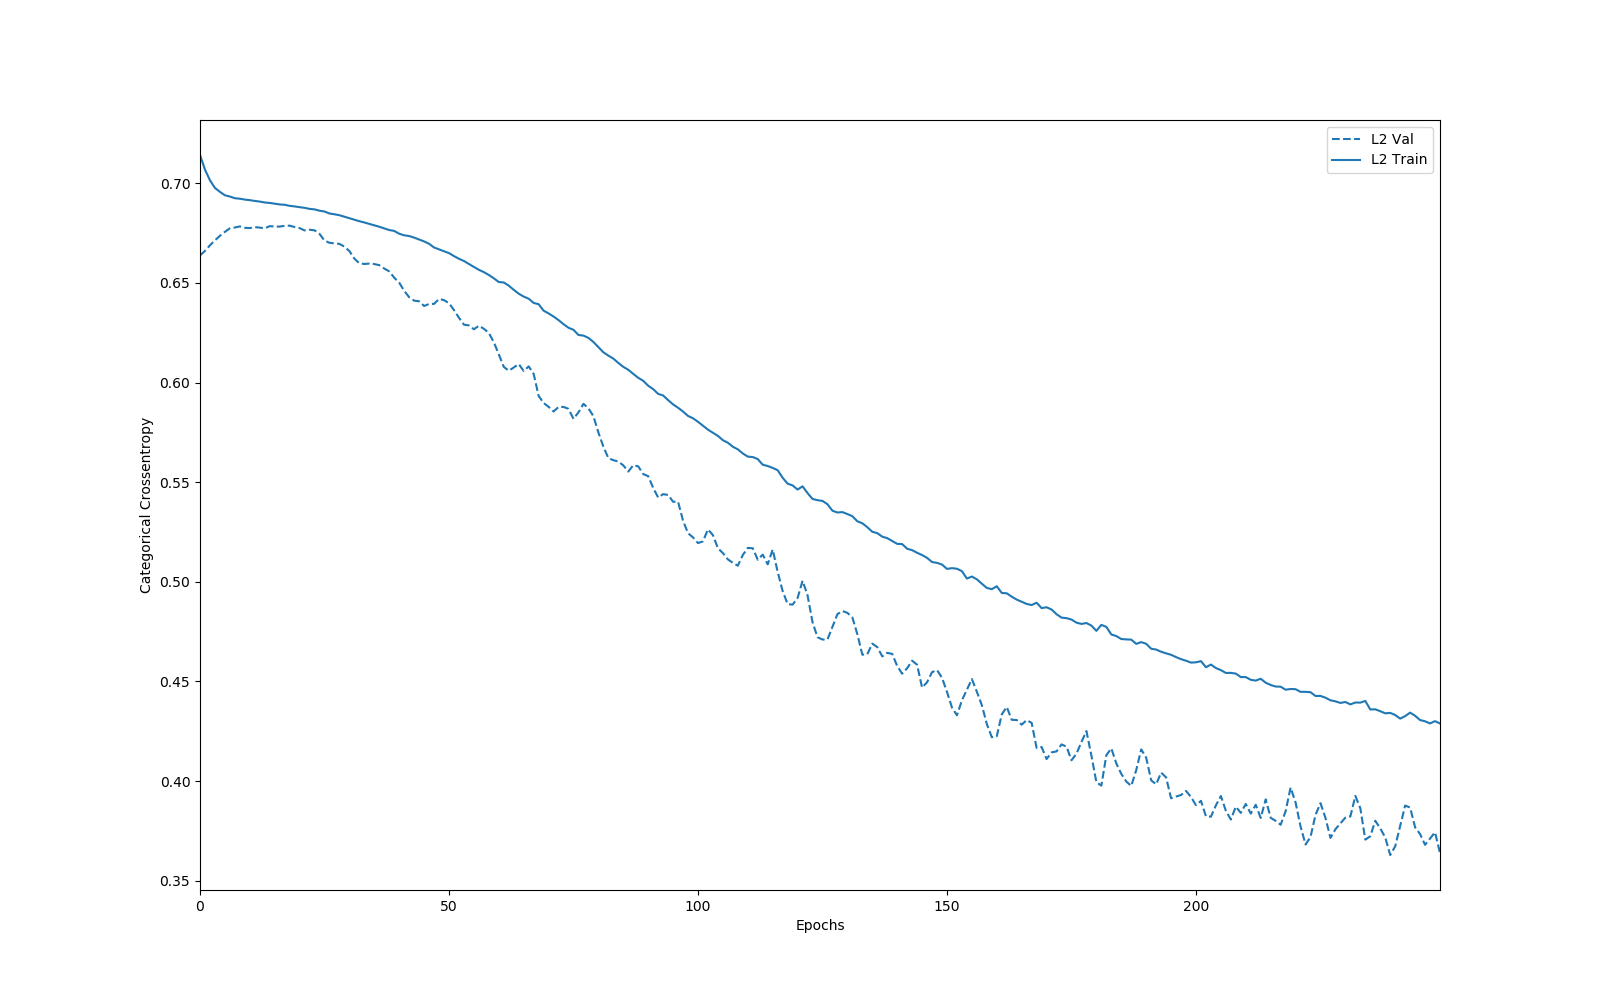
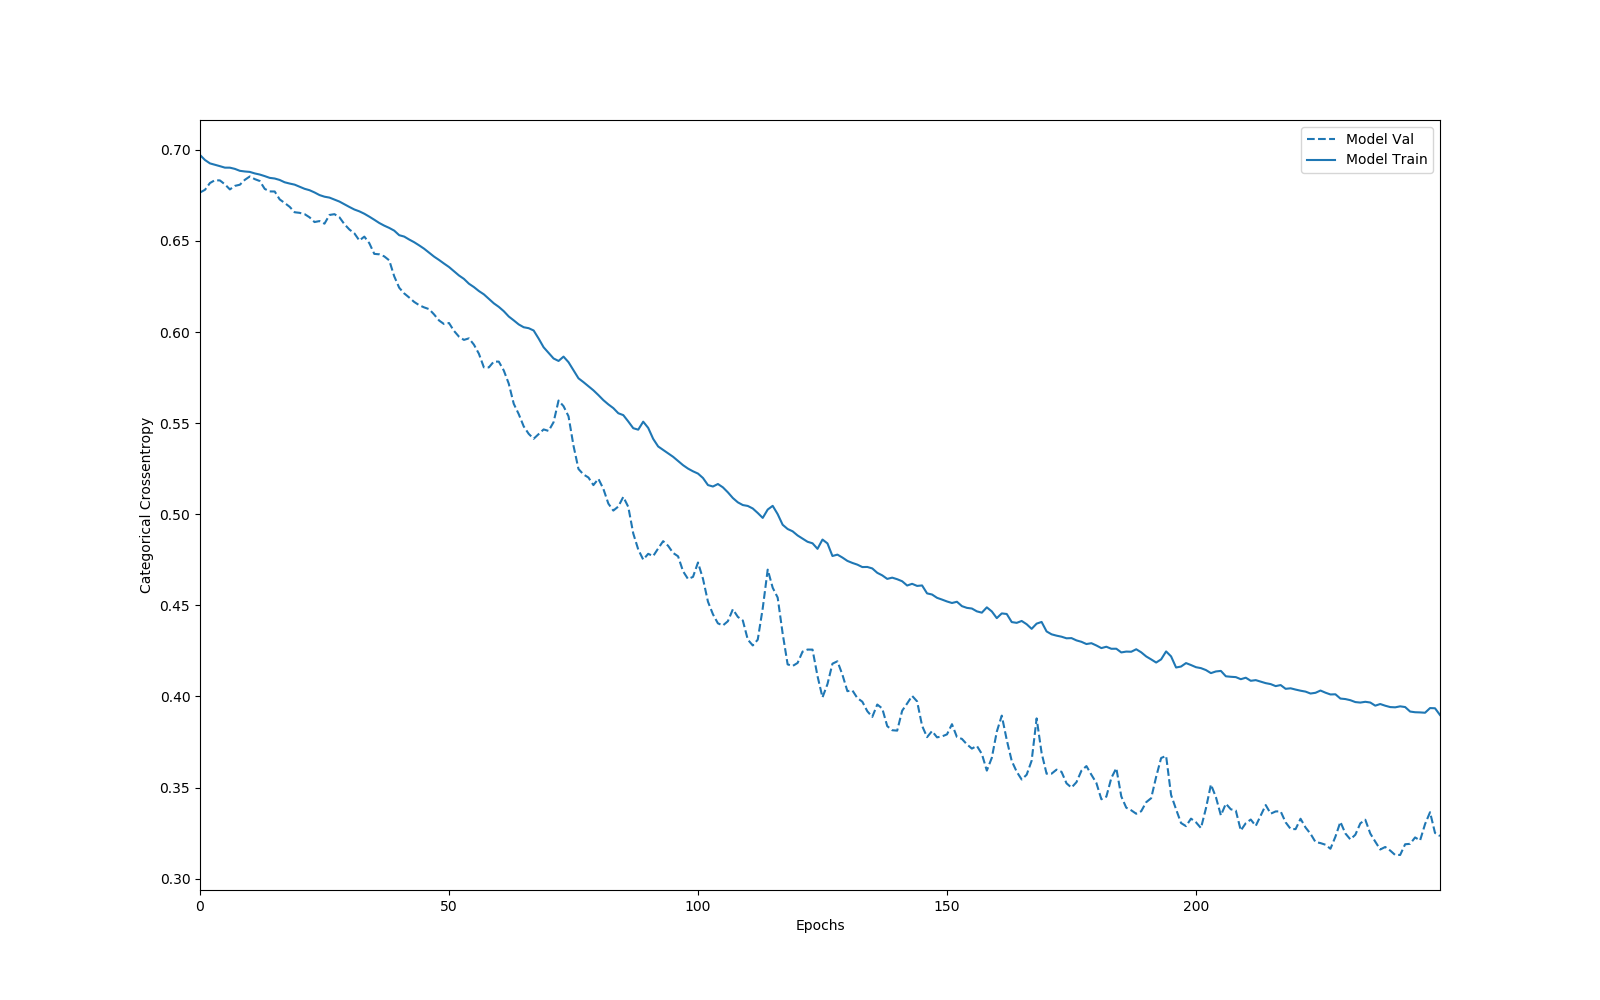
need to explain the neural network

diff --git a/nn_process.py b/nn_process.py
@@ -68,7 +68,7 @@ model = build_baseline_model_60_1_layer_3_hidden_units(60)
 model.summary()
 model_history = model.fit(X_train, y_train, epochs=250, batch_size=32, validation_data=(X_test, y_test), verbose=1)
 
-plot_history([('l2', model_history)])
+plot_history([('model', model_history)])
 
 score = model.evaluate(X_test, y_test, verbose=0)
 print('Test loss:', score[0])

diff --git a/README.md b/README.md
@@ -1,13 +1,39 @@
 # mineDetect
 using NN (with keras) to classify Mines and Rocks from the Sonar Dataset
 
+## Data observation
+The file "sonar.mines" contains 111 patterns obtained by bouncing sonar signals off a metal cylinder at various angles and under various conditions. The file "sonar.rocks" contains 97 patterns obtained from rocks under similar conditions. The transmitted sonar signal is a frequency-modulated chirp, rising in frequency. The data set contains signals obtained from a variety of different aspect angles, spanning 90 degrees for the cylinder and 180 degrees for the rock.
+
+Each pattern is a set of 60 numbers in the range 0.0 to 1.0. 
+Each number represents the energy within a particular frequency band, integrated over a certain period of time. The integration aperture for higher frequencies occur later in time, since these frequencies are transmitted later during the chirp.
+
+According to the following boxplots of the frequency bins we can say that the data are more or less evenly distributed.
+
+![alt text](/res/boxplot_frequency.png "Boxplot of frequency")
+
+![alt text](/res/psd.png "Power Spectral Density")
+
+The features are already normalized, therefore, the only preprocessing needed is to encode the classes from String to Integer and split the dataset in training dataset and testing dataset.
+
+```python
+y = input_data['label'].copy()
+y = LabelEncoder().fit_transform(y)
+y = to_categorical(y)
+
+X_df = input_data.copy()
+X_df.drop(['label'], inplace=True, axis=1)
+
+X_train, X_test, y_train, y_test = train_test_split(X_df.values, y, test_size=0.2, shuffle=True, random_state=42)
+```
+
 ## Model used
 ```python
 model = Sequential()
-    model.add(Dense(input_dim, input_dim=input_dim, activation='sigmoid'))
-    model.add(Dense(3, activation='sigmoid'))
-    model.add(Dense(2, activation='softmax'))
-    model.compile(loss='categorical_crossentropy', optimizer='adam', metrics=['accuracy', 'categorical_crossentropy'])
+model.add(Dense(input_dim, input_dim=input_dim, activation='sigmoid'))
+model.add(Dense(3, activation='sigmoid'))
+model.add(Dense(2, activation='softmax'))
+model.compile(loss='categorical_crossentropy', optimizer='adam', metrics=['accuracy', 'categorical_crossentropy'])
+model.fit(X_train, y_train, epochs=250, batch_size=32, validation_data=(X_test, y_test), verbose=1)
 ```
 
 |  Layer (type)  |  Output Shape  |  Param #  |
@@ -29,3 +55,7 @@ Train on 166 samples and validate on 42 samples.
 + batch of 32
 
 ![alt text](/res/training.png "Training")
+
+**Test loss:** around 0.31
+
+**Test accuracy:** around 0.92
